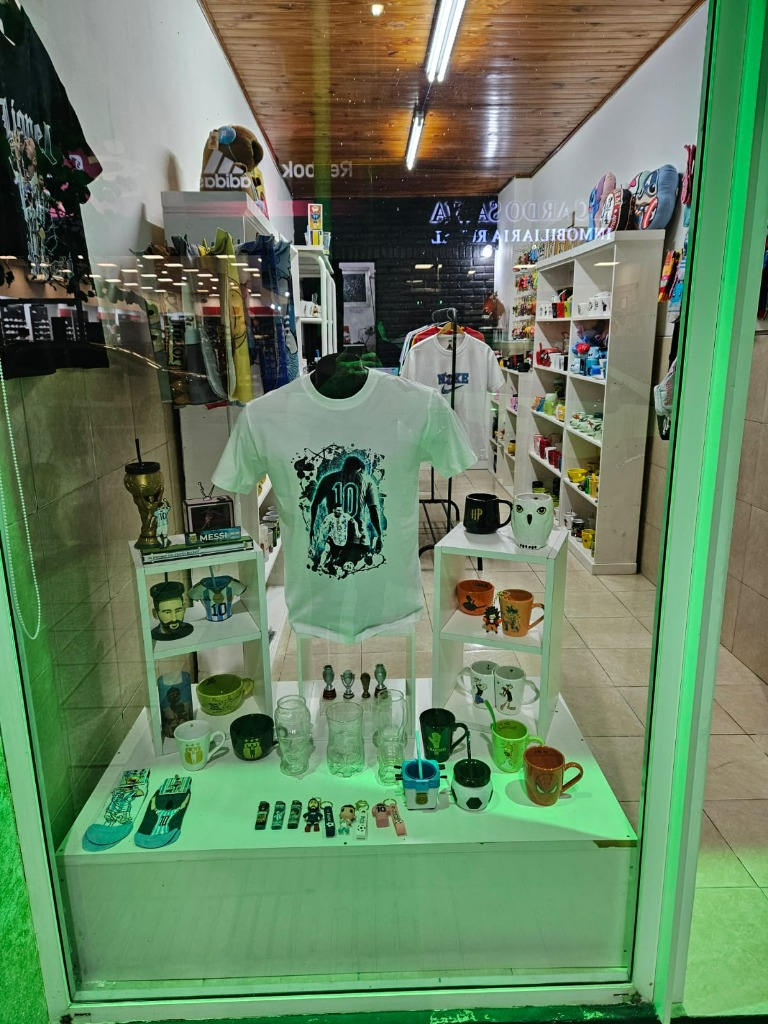
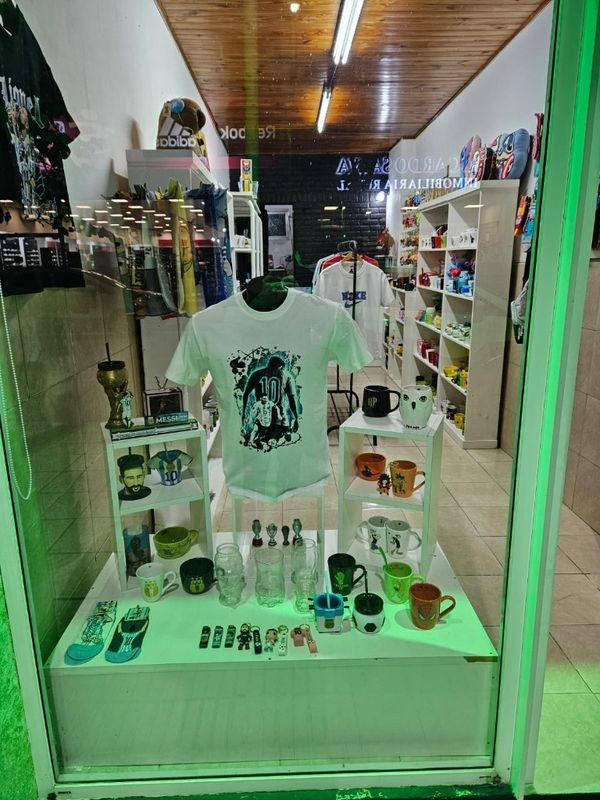
Fix: Bulk optimized all asset images to precisely 600px widths, saving 11.70MB of bandwidth; Fixed Modal X button z-index overlapping

Changed region(s): [[0.87, 0.25, 0.9, 0.2812], [0.84, 0.1875, 0.87, 0.2188]]

diff --git a/src/components/QuickViewModal.css b/src/components/QuickViewModal.css
@@ -56,7 +56,7 @@
   display: flex;
   align-items: center;
   justify-content: center;
-  z-index: 10;
+  z-index: 9999;
   transition: all 0.2s;
 }
 
